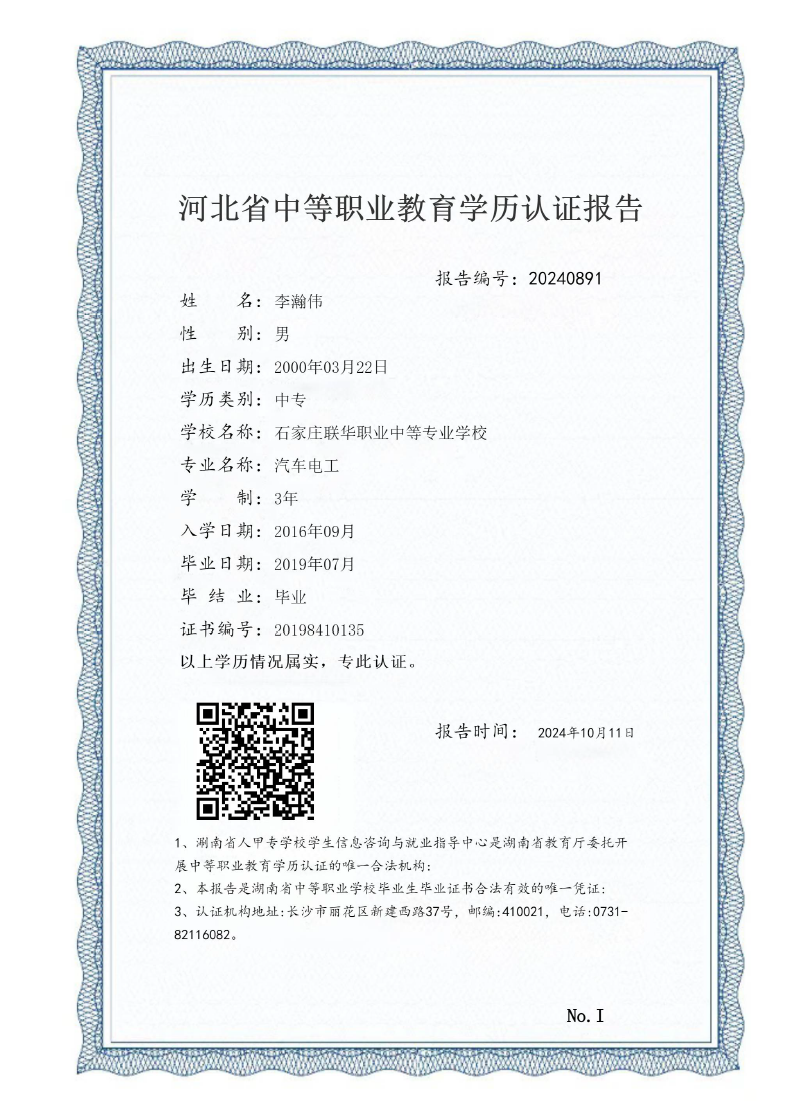
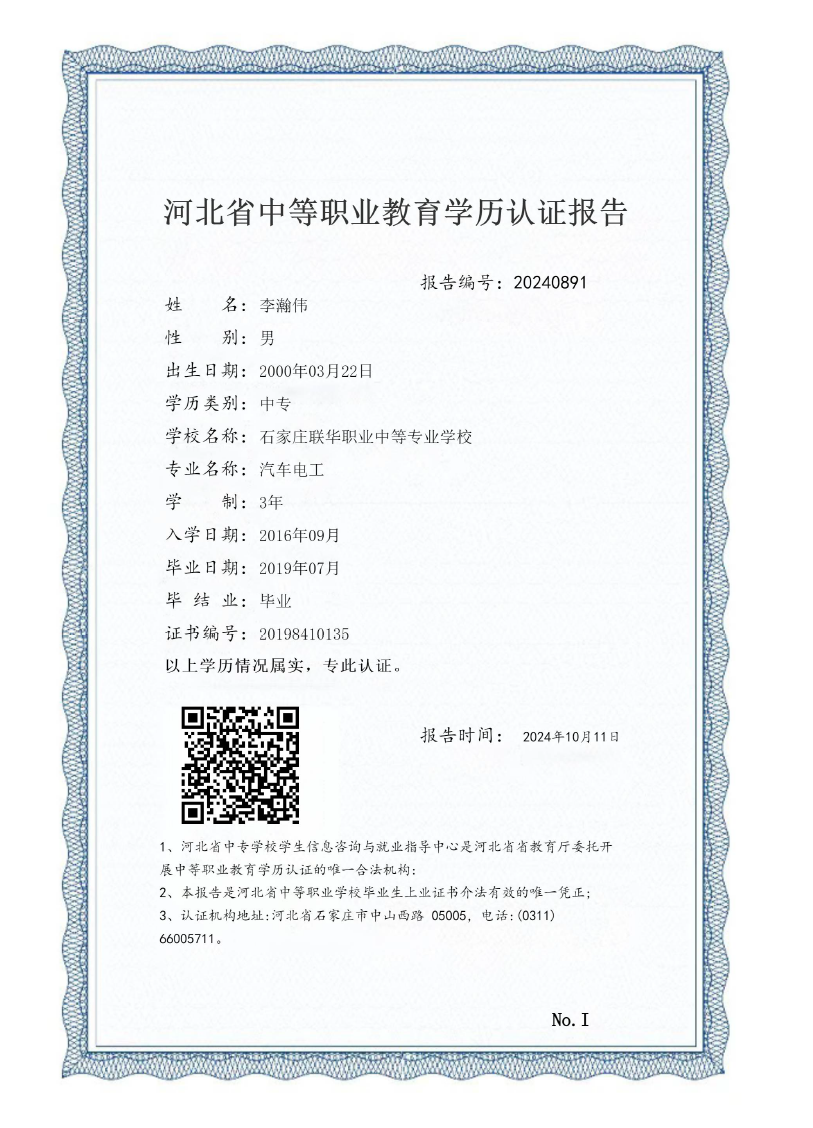
修改

diff --git a/html/xueli_renzhengsNone.html b/html/xueli_renzhengsNone.html
@@ -447,9 +447,9 @@
 										</div>
 										<div class="zxyz-res-tip cj-page-footer" style="bottom: -230px;left: 51px;font-size:14px">
 											<div class="zxyz-res-tip-content ziti" style="line-height: 23px;transform: scale(0.85);transform-origin: left bottom;">
-												1、涮南省人甲专学校学生信息咨询与就业指导中心是湖南省教育厅委托开展中等职业教育学历认证的唯一合法机构:<br />
-												2、本报告是湖南省中等职业学校毕业生毕业证书合法有效的唯一凭证:<br />
-												3、认证机构地址:长沙市丽花区新建西路37号，邮编:410021，电话:0731-82116082。<br />
+												1、河北省中专学校学生信息咨询与就业指导中心是河北省省教育厅委托开展中等职业教育学历认证的唯一合法机构:<br />
+												2、本报告是河北省中等职业学校毕业生上业证书介法有效的唯一凭正;<br />
+												3、认证机构地址:河北省石家庄市中山西路 05005，电话:(0311) 66005711。<br />
 											</div>
 										</div>	
 										<div style="position: absolute;right: 88px;bottom: -300px;font-family: fangsong;font-weight: 700;">
